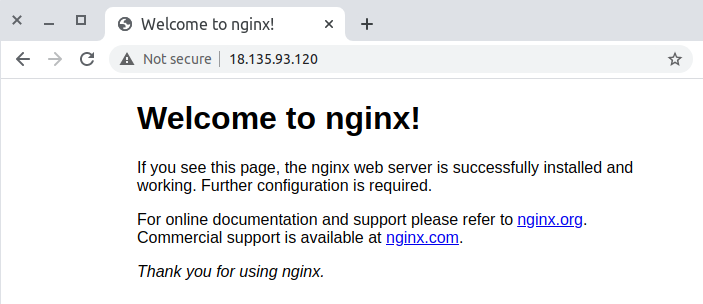
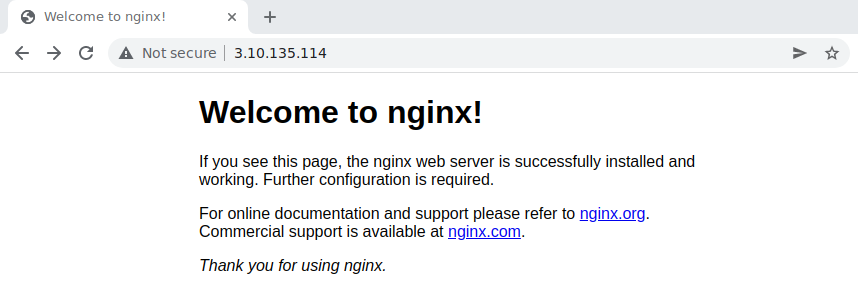
M #-: Update k8s QS guide / Introduce k8s ingress

diff --git a/source/quick_start/usage_basics/running_kubernetes_clusters.rst b/source/quick_start/usage_basics/running_kubernetes_clusters.rst
@@ -32,14 +32,13 @@ During the AWS Edge Cluster provisioning a private private network template was 
 
 We need to first put the name, e.g. ``aws-private`` and then add an address range, click ``+ Address Range`` and put a private IPv4 range, e.g. ``172.20.0.1``, for size we can put ``100``.
 
-Last thing you need to add to the network is a DNS server, click the ``Context`` tab under Network configuration and put a DNS server, e.g. ``8.8.8.8``.
+Last thing you need to add to the network is a DNS server, click the ``Context`` tab under Network configuration and put a DNS server, e.g. ``8.8.8.8`` or ``1.1.1.1``.
 
 |kubernetes-qs-create-ar|
 
 Now you are ready to start the Kubernetes Service.
 
 .. |kubernetes-qs-create-ar| image:: /images/kubernetes-qs-create-ar.png
-
 
 Step 3. Instantiate the Kubernetes Service
 ~~~~~~~~~~~~~~~~~~~~~~~~~~~~~~~~~~~~~~~~~~
@@ -54,14 +53,34 @@ A required step is clicking on ``Network`` and selecting the ``metal-kvm-aws-clu
 
 And for private network we will use the ``aws-private`` we instantiated before.
 
-
 |kubernetes-qs-pick-networks|
 
-Also, we need to specify some VIPs from the private subnet, put e.g.: ``172.20.0.10`` and ``172.20.0.20``
+Also, we need to specify some VIPs from the private subnet, put e.g.: ``172.20.0.253`` and ``172.20.0.254``
 
 |kubernetes-qs-pick-vips|
 
-You will most likely want to setup IP range for the `Kubernetes LoadBalancer <https://kubernetes.io/docs/concepts/services-networking/service/#loadbalancer>`_ - that can be done either by providing the complete config in ``ONEAPP_K8S_LOADBALANCER_CONFIG`` (it's a `configmap for MetalLB <https://metallb.universe.tf/configuration/#layer-2-configuration>`_) or set one in ``ONEAPP_K8S_LOADBALANCER_RANGE`` (e.g.: ``10.0.0.0-10.255.255.255``).
+.. note::
+
+    This is specific to AWS deployments. In an on-prem scenario the ``Control Plane Endpoint VIP`` should be IP address taken from a **public** VNET.
+
+You will most likely want to add a custom domain to Kubernetes SANs, so the ``kubectl`` command could be used from "outside" of the cluster.
+
+|kubernetes-qs-add-sans|
+
+You can either use a public DNS server or local ``/etc/hosts`` file, for example:
+
+.. prompt:: text $ auto
+
+   127.0.0.1 localhost
+   1.2.3.4 k8s.yourdomain.it
+
+.. note::
+
+   The **public** IP address (AWS elastic IP) should be taken from OpenNebula after the VNF instance is successfully provisioned.
+
+.. important::
+
+    To make the kubeconfig file work with custom SANs you will need to modify the ``clusters[0].cluster.server`` variable inside the YAML payload, for example: ``server: https://k8s.yourdomain.it:6443``.
 
 Now click on the instantiate button, go to ``Instances --> Services`` and wait for the new Service to get into ``RUNNING`` state. You can also check the VMs being deployed in ``Instances --> VMs``.
 
@@ -73,6 +92,7 @@ Now click on the instantiate button, go to ``Instances --> Services`` and wait f
 
 .. |kubernetes-qs-pick-networks| image:: /images/kubernetes-qs-pick-networks.png
 .. |kubernetes-qs-pick-vips| image:: /images/kubernetes-qs-pick-vips.png
+.. |kubernetes-qs-add-sans| image:: /images/kubernetes-qs-add-sans.png
 
 Step 4. Validate the Kubernetes cluster
 ~~~~~~~~~~~~~~~~~~~~~~~~~~~~~~~~~~~~~~~
@@ -100,10 +120,9 @@ We are going to use the root account in the master to perform a simple validatio
 
     root@onekube-ip-172-20-0-2:~# kubectl get nodes
     NAME                    STATUS   ROLES                  AGE     VERSION
-    onekube-ip-172-20-0-2   Ready    control-plane,master   7m30s   v1.23.6
-    onekube-ip-172-20-0-3   Ready    <none>                 4m33s   v1.23.6
-    onekube-ip-172-20-0-4   Ready    <none>                 2m39s   v1.23.6
-
+    onekube-ip-172-20-0-2   Ready    control-plane,master   7m30s   v1.23.7
+    onekube-ip-172-20-0-3   Ready    <none>                 4m33s   v1.23.7
+    onekube-ip-172-20-0-4   Ready    <none>                 2m39s   v1.23.7
 
 Now create a file ``kubetest_1pod.yaml`` with the following contents:
 
@@ -133,7 +152,6 @@ Now create a file ``kubetest_1pod.yaml`` with the following contents:
            - name: http
              containerPort: 8080
 
-
 Now it's time to apply it in Kubernetes:
 
 .. prompt:: yaml $ auto
@@ -148,8 +166,8 @@ After a few seconds, you should be able to see the simple pod in RUNNING state:
     NAME                        READY   STATUS    RESTARTS   AGE
     kubetest-7655fb5bdb-ztblz   1/1     Running   0          69s
 
-Step 5. Connect to Kubernetes API via SSH tunnel
-~~~~~~~~~~~~~~~~~~~~~~~~~~~~~~~~~~~~~~~~~~~~~~~~
+Step 5. Connect to Kubernetes API via SSH tunnel (optional)
+~~~~~~~~~~~~~~~~~~~~~~~~~~~~~~~~~~~~~~~~~~~~~~~~~~~~~~~~~~~
 
 By default Kubernetes API Server's extra SANs are set to **localhost,127.0.0.1** which allows to access Kubernetes API via SSH tunnels.
 
@@ -191,148 +209,77 @@ and then in another terminal:
 
     [remote]$ kubectl get nodes
     NAME                    STATUS   ROLES                  AGE     VERSION
-    onekube-ip-172-20-0-2   Ready    control-plane,master   13m     v1.23.6
-    onekube-ip-172-20-0-3   Ready    <none>                 11m     v1.23.6
-    onekube-ip-172-20-0-4   Ready    <none>                 11m     v1.23.6
+    onekube-ip-172-20-0-2   Ready    control-plane,master   13m     v1.23.7
+    onekube-ip-172-20-0-3   Ready    <none>                 11m     v1.23.7
+    onekube-ip-172-20-0-4   Ready    <none>                 11m     v1.23.7
 
 Step 6. Deploy an Application
-~~~~~~~~~~~~~~~~~~~~~~~~~~~~~~~~~~
+~~~~~~~~~~~~~~~~~~~~~~~~~~~~~
 
 Let's deploy nginx on the cluster:
 
 .. prompt:: yaml $ auto
 
-   [root@onekube-ip-10-0-17-190 ~]# kubectl run nginx --image=nginx --port 80
+   $ kubectl run nginx --image=nginx --port 80
 
 After a few seconds, you should be able to see the nginx pod running
 
 .. prompt:: yaml $ auto
 
-    [root@onekube-ip-10-0-17-190 ~]# kubectl get pods
+    $ kubectl get pods
     NAME    READY   STATUS    RESTARTS   AGE
     nginx   1/1     Running   0          12s
 
-In order to access the application, we need to create a Service object that exposes the application.
+In order to access the application, we need to create a Service and IngressRoute objects that expose the application.
 
-NodePort Service
-++++++++++++++++
-
-One way is to create a `NodePort Service <https://kubernetes.io/docs/concepts/services-networking/service/#nodeport>`_ that opens a specific port on all the cluster VMs, so all traffic sent to this port is forwarded to the Service:
-
-.. prompt:: yaml $ auto
-
-   [root@onekube-ip-10-0-17-190 ~]# kubectl expose pod nginx --type=NodePort --name=nginx
-
-Let's check the service:
-
-.. prompt:: yaml $ auto
-
-    [root@onekube-ip-10-0-17-190 ~]# kubectl get svc
-    NAME         TYPE        CLUSTER-IP     EXTERNAL-IP   PORT(S)        AGE
-    kubernetes   ClusterIP   10.96.0.1      <none>        443/TCP        30m
-    nginx        NodePort    10.104.44.89   <none>        80:30317/TCP   13s
-
-You can use any public IP of the VMs of the K8s cluster to connect to the nginx application using the port allocated (``30317`` in our case).
-
-|node_port_nginx_welcome_page|
-
-External IP Service
+External IP Ingress
 +++++++++++++++++++
 
-.. warning::
-
-    When this kind of service is used then losing the node where the External IP is bound will also drop the access to the service! There is a better approach with LoadBalancer type of service described in the next section.
-
-An alternative way to expose the Service is to use **External IPs** and expose the service directly. In this case, we can use the public IPs of the cluster VMs, or we can add also another public IP by attaching a new NIC (as a Nic Alias) to one of the cluster VMs. In the second case, first of all verify that you have public IPs available from the public network deployed on the edge; if you can then add another IP by following the steps described :ref:`here <edge_public>`
-
-In order to attach a Nic Alias to a VM, go to the ``Instances --> VMs`` tab, select one of the cluster VMs and then select the ``Network`` tab of that VM. Then you press the ``attach_nic`` green button and you can attach a Nic Alias by ticking the option ``Attach as an alias`` and selecting the public network.
-
-|nic_alias_attach|
-
-Check the private IP of the Nic Alias
-
-|nic_alias_attached|
-
-and create the yaml file (service.yaml) using the private IP of the Nic Alias as in the following:
+Create a ``expose-nginx.yaml`` file with the following contents:
 
 .. prompt:: yaml $ auto
 
-  apiVersion: v1
-  kind: Service
-  metadata:
-    name: nginx
-  spec:
-    selector:
-      app: nginx
-    ports:
-      - name: http
-        protocol: TCP
-        port: 80
-        targetPort: 80
-    externalIPs:
-      - 10.0.93.120
+    ---
+    apiVersion: v1
+    kind: Service
+    metadata:
+      name: nginx
+    spec:
+      selector:
+        run: nginx
+      ports:
+        - name: http
+          protocol: TCP
+          port: 80
+          targetPort: 80
+    ---
+    apiVersion: traefik.containo.us/v1alpha1
+    kind: IngressRoute
+    metadata:
+      name: nginx
+    spec:
+      entryPoints: [web]
+      routes:
+        - kind: Rule
+          match: Path(`/`)
+          services:
+            - kind: Service
+              name: nginx
+              port: 80
+              scheme: http
 
-then you can deploy the service using
+Apply the manifest using ``kubectl``:
 
-.. prompt:: yaml $ auto
+.. prompt:: text $ auto
 
-  [root@onekube-ip-10-0-17-190 ~]# kubectl apply -f service.yaml
+    $ kubectl apply -f expose-nginx.yaml
+    service/nginx created
+    ingressroute.traefik.containo.us/nginx created
 
-and you can check the service using
-
-.. prompt:: yaml $ auto
-
-  [root@onekube-ip-10-0-17-190 ~]# kubectl get svc
-  NAME         TYPE        CLUSTER-IP     EXTERNAL-IP   PORT(S)   AGE
-  kubernetes   ClusterIP   10.96.0.1      <none>        443/TCP   30m
-  nginx        ClusterIP   10.99.198.56   10.0.93.120   80/TCP    8s
-
-Now you can access the application using the public IP of the Nic Alias in the browser:
+Access the VNF node public IP in you browser using plain HTTP:
 
 |external_ip_nginx_welcome_page|
 
-LoadBalancer Service
-++++++++++++++++++++
-
-We can improve the previous setup by configuring the Appliance with a LoadBalancer context parameter for the IP range (``ONEAPP_K8S_LOADBALANCER_RANGE``) and expose the service as a `Kubernetes type LoadBalancer <https://kubernetes.io/docs/concepts/services-networking/service/#loadbalancer>`_.
-
-.. important::
-
-    **The range must match the actually intended range of publishable IP addresses!**
-
-    In this demo we have only one available address for load balancing and so our range will have only one address:
-
-    .. code::
-
-        ONEAPP_K8S_LOADBALANCER_RANGE="10.0.93.120"
-
-    This syntax is allowed for convenience (by the appliance not MetalLB!) and it could have been written alternatively as:
-
-    .. code::
-
-        ONEAPP_K8S_LOADBALANCER_RANGE="10.0.93.120-10.0.93.120"
-
-    Which is the correct format for ranges with more than one addresses.
-
-The setup is very similar to the previous one but when we are creating the NIC alias we will also tick the ``External`` checkbox button. This way the IP will not be actually assigned anywhere but it will be reserved for our loadbalancing usage.
-
-The effect can be achieved with this command:
-
-.. prompt:: yaml $ auto
-
-   [root@onekube-ip-10-0-17-190 ~]# kubectl expose pod nginx --type=LoadBalancer --name=nginx --load-balancer-ip=10.0.93.120
-
-
-The advantage is that there is no one node where is this External IP bound. The whole Kubernetes cluster *owns* it and when the node - which is actually responding to this IP - fails then the IP will *flow* accross the cluster to the next healthy node thanks to the LoadBalancer service.
-
-.. note::
-
-    If the reader understands how the `Keepalived <https://www.keepalived.org/>`_ functions then this is very similar. The difference is that the provider of the LoadBalancer is not assigning the IP(s) on the cluster nodes but it just replies to the ARP requests or sends *gratuitous* ARP messages when failover needs to happen. For more info read the official documentation of the LoadBalancer which the Appliance is using: `MetalLB ARP/Layer2 <https://metallb.universe.tf/concepts/layer2/>`_.
-
 Congrats! You successfully deployed a fully functional Kubernetes cluster in the edge. Have fun with your new OpenNebula cloud!
 
-.. |nginx_install_page| image:: /images/nginx_install_page.png
-.. |node_port_nginx_welcome_page| image:: /images/node_port_nginx_welcome_page.png
 .. |external_ip_nginx_welcome_page| image:: /images/external_ip_nginx_welcome_page.png
-.. |nic_alias_attach| image:: /images/nic_alias_attach.png
-.. |nic_alias_attached| image:: /images/nic_alias_attached.png
